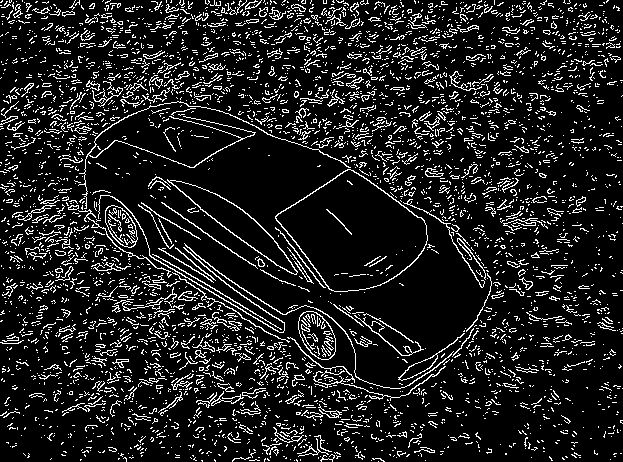
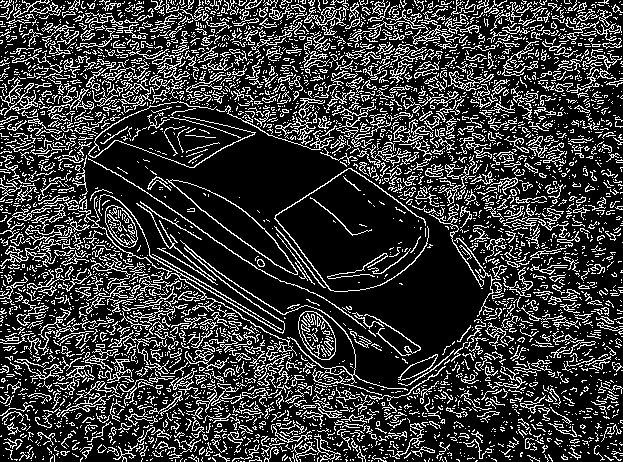
adjustments to assignment 3

diff --git a/assignment_3/assignment_3.py b/assignment_3/assignment_3.py
@@ -7,8 +7,8 @@ def sobel_edge_function(image):
     if img is None:
         print("Could not load image.")
         exit(1)
-
-    gaussian = cv.GaussianBlur(img, (3, 3), 0)
+    gray = cv.cvtColor(img, cv.COLOR_BGR2GRAY)
+    gaussian = cv.GaussianBlur(gray, (3, 3), 0)
     sobel = cv.Sobel(src=gaussian, ddepth=cv.CV_64F, dx=1, dy=1, ksize=1)
 
     cv.imshow('sobel', sobel)
@@ -22,7 +22,8 @@ def canny_edge_detection(image, threshold_1, threshold_2):
         print("Could not load image.")
         exit(1)
 
-    gaussian = cv.GaussianBlur(img, (3, 3), 0)
+    gray = cv.cvtColor(img, cv.COLOR_BGR2GRAY)
+    gaussian = cv.GaussianBlur(gray, (3, 3), 0)
     edges = cv.Canny(gaussian, threshold_1, threshold_2)
 
     cv.imshow('canny_edge_detection', edges)
@@ -78,7 +79,7 @@ def resize(image, scale_factor:int, up_or_down:str):
 
 if __name__ == '__main__':
     sobel_edge_function('lambo.png')
-    canny_edge_detection('lambo.png', 100, 100)
+    canny_edge_detection('lambo.png', 50, 50)
     template_match('shapes-1.png', 'shapes_template.jpg')
 
     zoom = str(input("Enter 'up' for zooming in and 'down' for zooming out: "))
